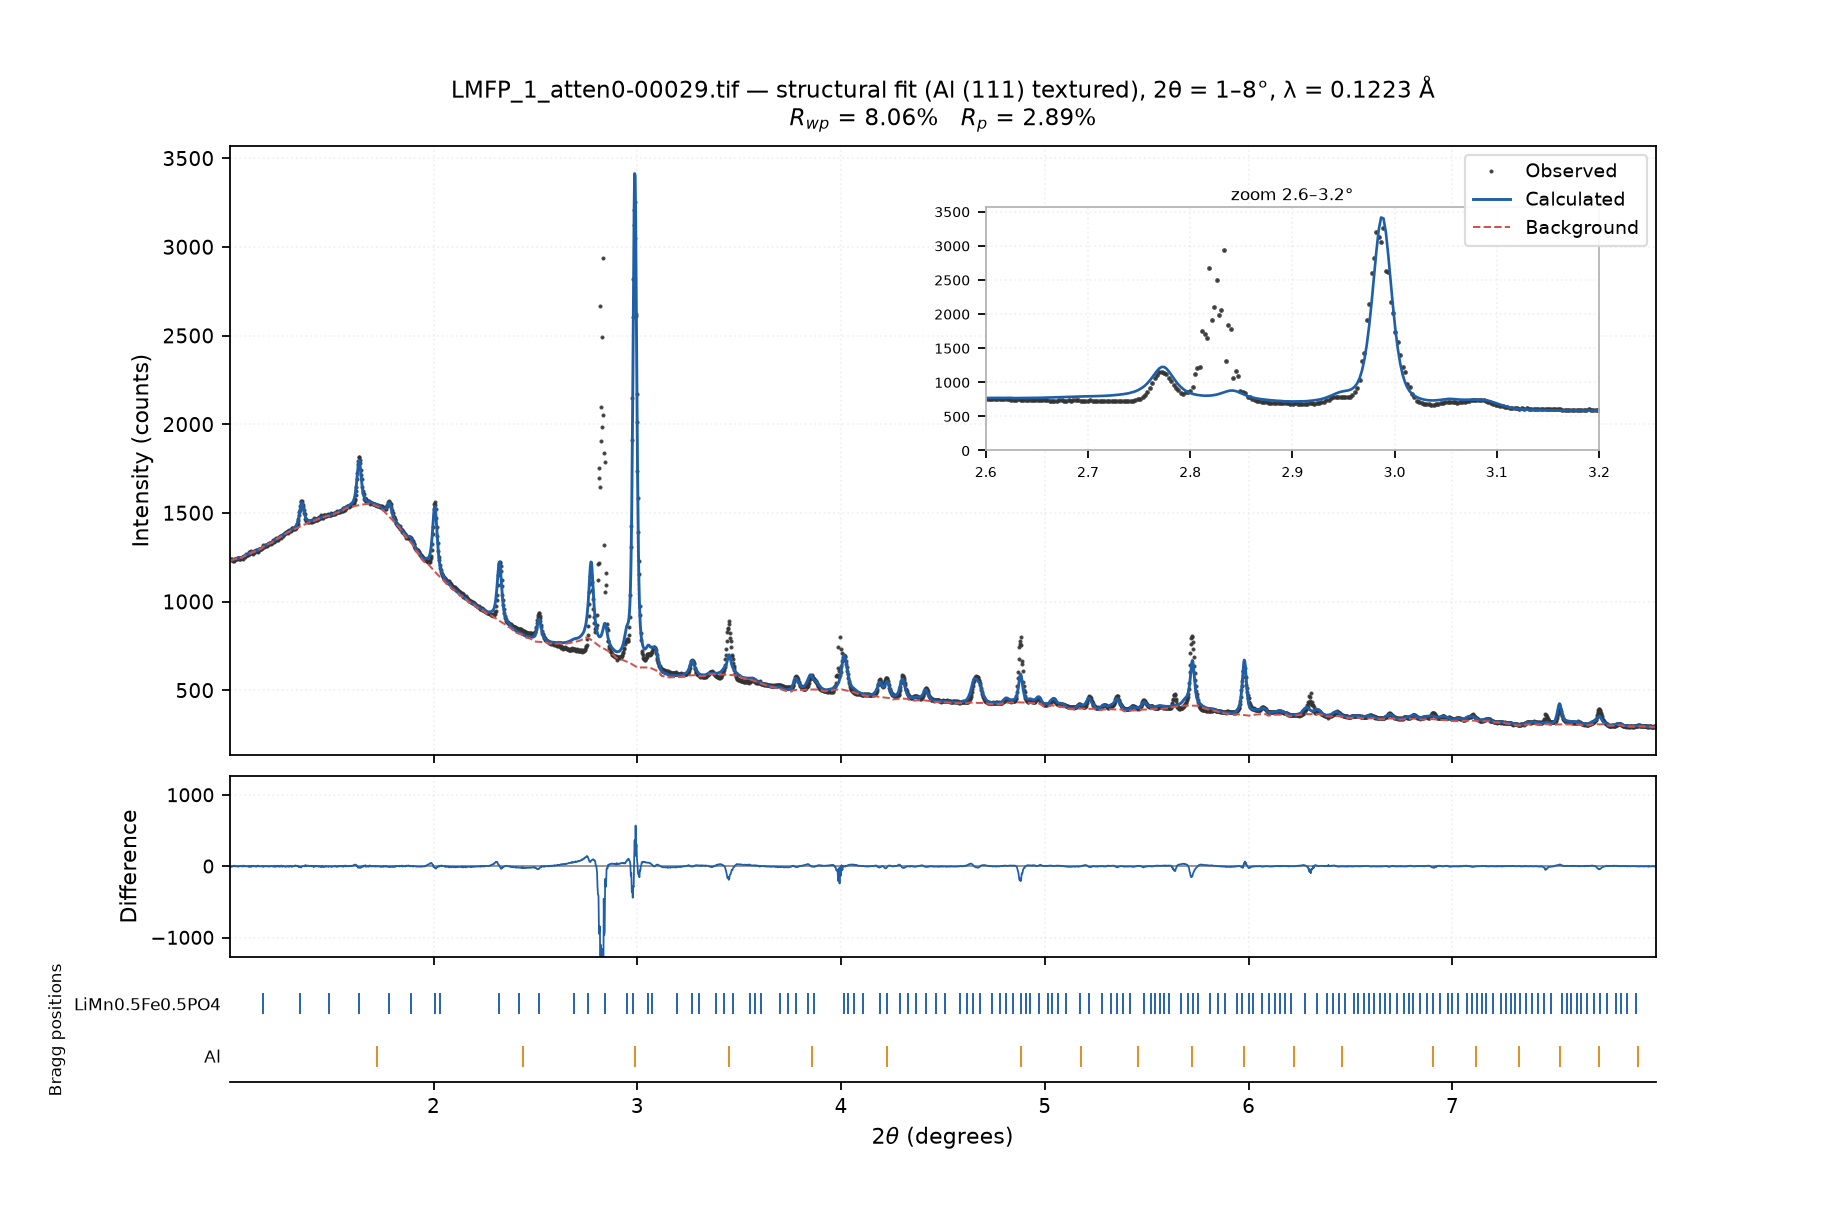
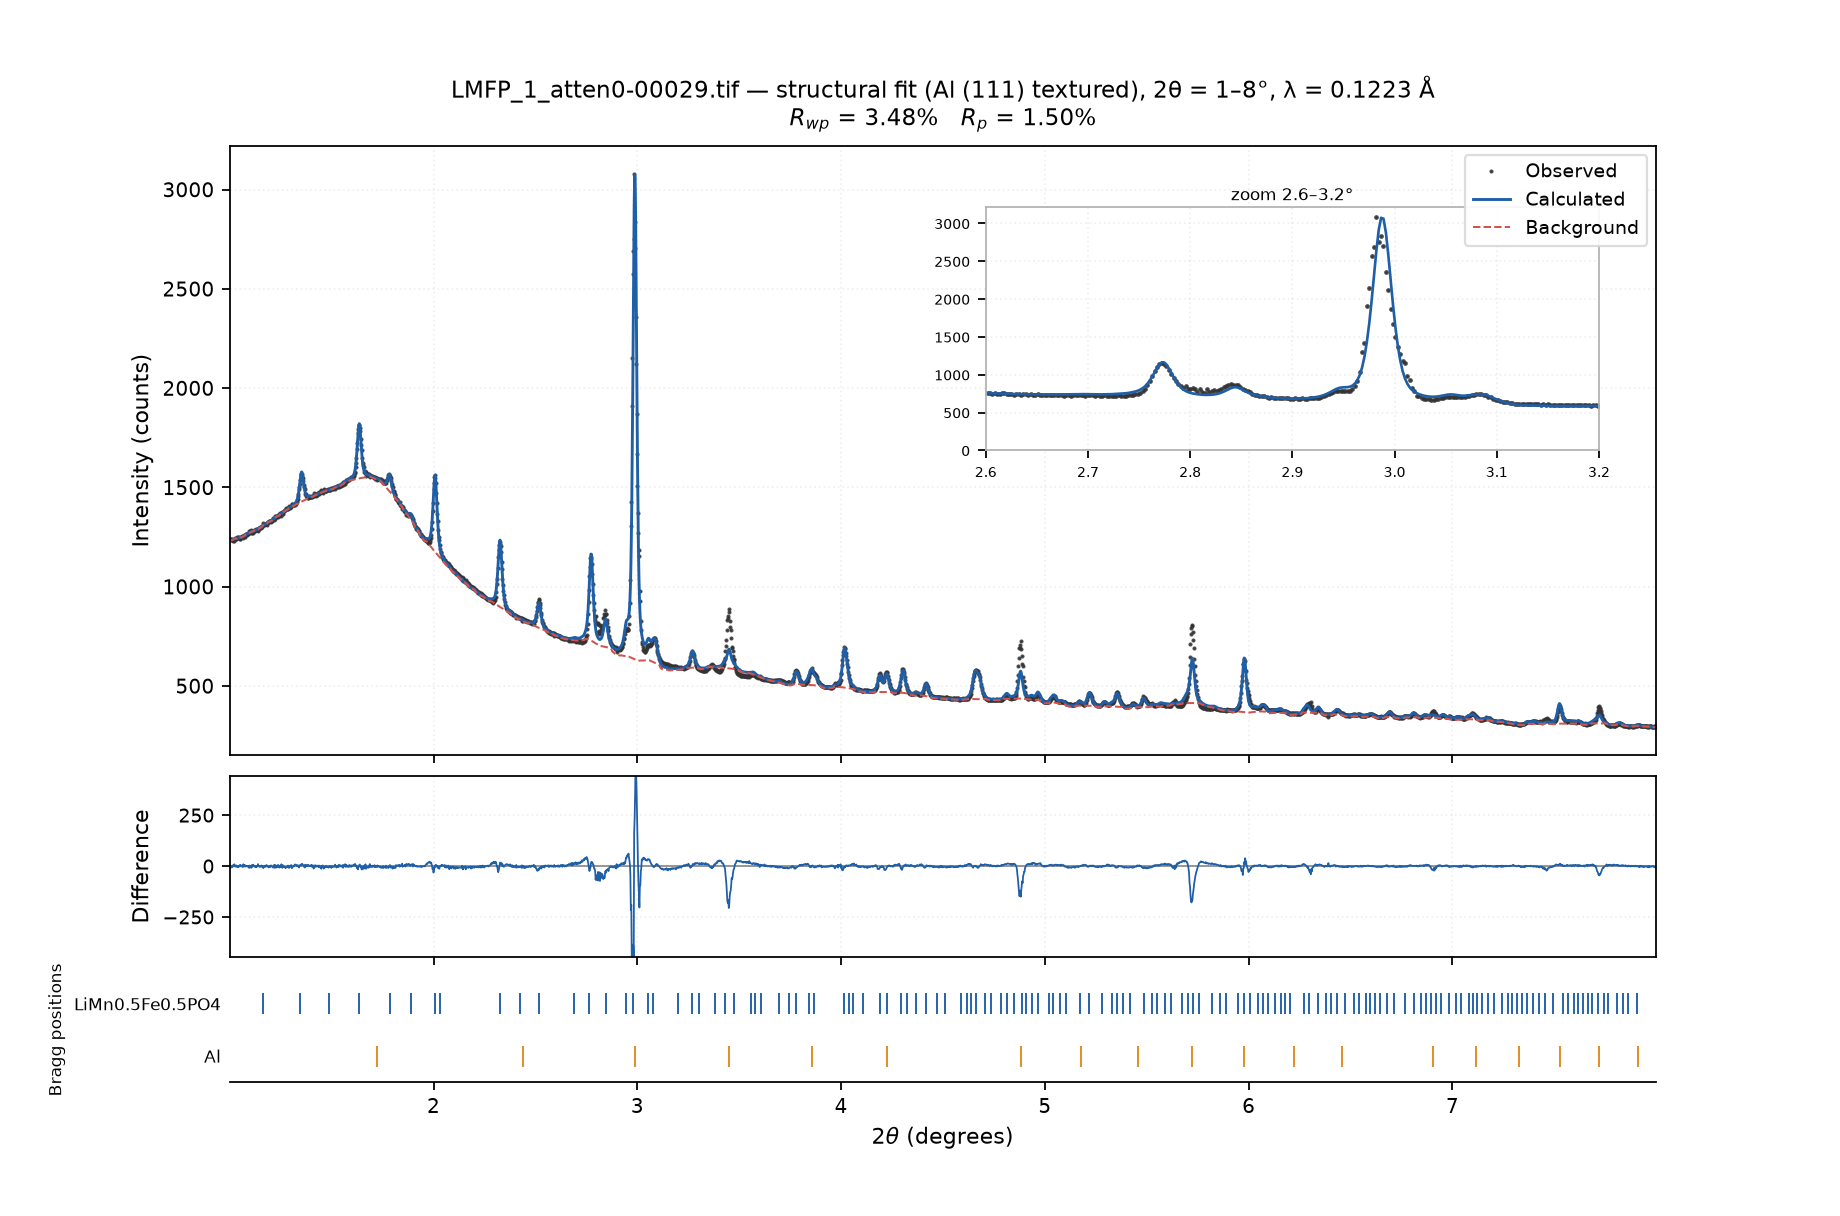
feat: mask fixed detector hot spots before integration
- services/hot_pixels.mask_hot_pixels finds small isolated bright blobs
  (local-median ratio > 8, component area <= 300 px, peak >= 20k) and
  replaces them with the local median; 2x2 downsampling keeps a 2048^2
  frame at ~2.5 s
- fit_lmfp and analyze_pattern enable it for the sample images by default
  (--no-hot-mask disables); the LaB6 standard is not masked because its
  bright spots are real diffraction
- the LMFP 2.8-2.9 deg cluster was a fixed hot blob identical in both
  frames; with the mask the structural Rwp goes 8.07 -> 3.48% and
  Le Bail 6.93 -> 2.29%
- drop the invalid two-phase candidate figure/report from showcase
- add synthetic tests for the mask

diff --git a/src/xrd_toolkit/services/hot_pixels.py b/src/xrd_toolkit/services/hot_pixels.py
@@ -1,0 +1,96 @@
+"""固定坏点/坏点团的检测与掩膜（2026-10-23）。
+
+LMFP 数据里发现**探测器固定的亮斑团**（同一像素在两帧里逐位相同，
+峰值可达 ~1.2M counts），它在方位角平均后会在 1D 谱上制造假峰
+（2.8–2.9° 那簇"算不出来"的强峰就是这么来的，见
+`detector-hot-pixels-lmfp-2026-10-23`）。
+
+做法：用局部中值找"孤立的小亮团"，只把这类像素替换成局部中值，
+**不碰大面积的真实衍射环**（真实环在 15×15 窗口里面积很大）。
+
+判据（针对当前 2048²、环计数 ~10³ 的面板；换探测器/增益时要调）：
+
+- 局部中值窗口 15×15；
+- 像素 > 8 × 局部中值；
+- 连通域面积 ≤ 300 px（真实环是长弧，面积远大于此）；
+- 连通域峰值 ≥ 20 000 counts（避免把弱峰/噪声当坏点）。
+
+注意 LaB6 标样不能套默认阈值：它的"亮斑"是真实衍射斑点，会被
+同一判据选中（实测 3885 个团/5.7 万 px，标样拟合会被毁掉）。
+标样要么不掩，要么只共享"探测器固定坏点坐标表"。
+"""
+import numpy as np
+from scipy import ndimage
+
+DEFAULT_WINDOW = 15
+DEFAULT_RATIO = 8.0
+DEFAULT_MAX_AREA = 300
+DEFAULT_MIN_PEAK = 20000.0
+DEFAULT_DOWNSAMPLE = 2
+
+
+def _local_median(img, window, downsample):
+    """局部中值（downsample ≥2 时先在 2×2 均值图上算，再放大）。
+
+    2048² 上直接 15×15 中值约 10 s；2×2 降采样后约 2.4 s，坏点团
+    （≥6×6 px）依然能被识别。
+    """
+    d = int(downsample)
+    if d < 2:
+        return ndimage.median_filter(img, size=int(window))
+    h, w = img.shape
+    h2, w2 = h // d, w // d
+    small = img[:h2 * d, :w2 * d].reshape(h2, d, w2, d).mean(axis=(1, 3))
+    med_small = ndimage.median_filter(small, size=int(window))
+    med = np.repeat(np.repeat(med_small, d, axis=0), d, axis=1)
+    full = np.empty_like(img)
+    full[:h2 * d, :w2 * d] = med
+    full[h2 * d:, :] = med[-1:, :]
+    full[:, w2 * d:] = med[:, -1:]
+    return full
+
+
+def mask_hot_pixels(image, *, window=DEFAULT_WINDOW, ratio=DEFAULT_RATIO,
+                    max_area=DEFAULT_MAX_AREA, min_peak=DEFAULT_MIN_PEAK,
+                    downsample=DEFAULT_DOWNSAMPLE):
+    """检测孤立亮团并替换为局部中值。
+
+    参数：
+        image     2D 强度数组（同 `load_diffraction_image` 的返回）
+        window    局部中值窗口（奇数，像素）
+        ratio     判定"亮"的倍数（相对局部中值）
+        max_area  连通域面积上限（px）；比它大的视为真实环/亮区，不动
+        min_peak  连通域峰值下限（counts）
+        downsample 局部中值的降采样倍数（2 = 先 2×2 均值再 15×15 中值；
+                   1 = 全分辨率中值，慢约 4 倍）
+
+    返回：
+        (cleaned, mask, info)
+        cleaned   坏点替换成局部中值后的图像（copy）
+        mask      bool 数组，True = 被替换的像素
+        info      dict：候选连通域数、掩掉的连通域数、掩掉像素数
+    """
+    img = np.asarray(image, dtype=float)
+    if img.ndim != 2:
+        raise ValueError("mask_hot_pixels 需要 2D 图像")
+    med = _local_median(img, window, downsample)
+    cand = img > float(ratio) * np.maximum(med, 1.0)
+    labels, n = ndimage.label(cand, structure=np.ones((3, 3)))
+    mask = np.zeros(img.shape, dtype=bool)
+    kept = 0
+    for i, sl in enumerate(ndimage.find_objects(labels), start=1):
+        if sl is None:
+            continue
+        sel = labels[sl] == i
+        area = int(sel.sum())
+        if area > int(max_area):
+            continue
+        if float(img[sl][sel].max()) < float(min_peak):
+            continue
+        mask[sl] |= sel
+        kept += 1
+    cleaned = img.copy()
+    cleaned[mask] = med[mask]
+    info = {"candidates": int(n), "masked_components": kept,
+            "masked_pixels": int(mask.sum())}
+    return cleaned, mask, info

diff --git a/scripts/fit_lmfp.py b/scripts/fit_lmfp.py
@@ -7,7 +7,7 @@
 流程：
   1. 用 LaB₆ 标样（`data/lab6-00024.tif`）拟合仪器峰形
      zero/U/V/W/X/Y，之后固定给样品；
-  2. 样品 1D 积分 + 自动基线；**排除 2.90–3.08° 的 Al (111) 基片峰**
+  2. 样品 1D 积分（先掩固定坏点团）+ 自动基线；**排除 2.90–3.08° 的 Al (111) 基片峰**
      （LMFP 电极的铝集流体，d≈2.34 Å；不排除会把强度模型带偏）；
   3. 结构拟合：晶胞 a/b/c + Size/应变 + 全局 B + 0.25° 背景修正，
      用来定晶胞；
@@ -30,6 +30,7 @@ sys.path.insert(0, str(ROOT / "src"))
 from xrd_toolkit.config import get_config  # noqa: E402
 from xrd_toolkit.services.background import estimate_baseline_sliding  # noqa: E402
 from xrd_toolkit.services.data_loader import load_diffraction_image  # noqa: E402
+from xrd_toolkit.services.hot_pixels import mask_hot_pixels  # noqa: E402
 from xrd_toolkit.services.integrator import integrate_1d  # noqa: E402
 from xrd_toolkit.simulation import (  # noqa: E402
     b_iso_from_cif, fit_pattern, load_structure, plot_fit)
@@ -49,8 +50,12 @@ SAMPLE_CELL = (10.376, 6.040, 4.708)
 AL_CIF = ROOT / "data" / "structures" / "Al_metal.cif"
 
 
-def load_1d(path, geom, tmin=1.0, tmax=8.0, npt=3000):
+def load_1d(path, geom, tmin=1.0, tmax=8.0, npt=3000, hot_mask=False):
     img = load_diffraction_image(str(path))
+    if hot_mask:
+        img, _mask, info = mask_hot_pixels(img)
+        print(f"  坏点掩膜：{info['masked_components']} 团 / "
+              f"{info['masked_pixels']} px（候选 {info['candidates']}）")
     return integrate_1d(img, npt=npt, tth_min_deg=tmin, tth_max_deg=tmax,
                         **geom)
 
@@ -73,8 +78,8 @@ def instrument_profile(geom, lam):
 
 
 def fit_one(path, structure, geom, lam, inst, outdir, exclude, cif_cell,
-            use_al=False, phase_label=None):
-    t, y = load_1d(path, geom)
+            use_al=False, phase_label=None, hot_mask=True):
+    t, y = load_1d(path, geom, hot_mask=hot_mask)
     bg = estimate_baseline_sliding(t, y, 0.2)
     w = 1.0 / np.maximum(y, 1.0)
     w_leb = w.copy()
@@ -143,6 +148,8 @@ def main():
                     help="不用 Al 第二相，直接把 Al 区从结构拟合里排除")
     ap.add_argument("--tmin", type=float, default=1.0)
     ap.add_argument("--tmax", type=float, default=8.0)
+    ap.add_argument("--no-hot-mask", action="store_true",
+                    help="关掉坏点团掩膜（默认开；标样本来就不过掩膜）")
     a = ap.parse_args()
     geom = dict(get_config("lmfp1_lab6")["geometry"])
     lam = geom["wavelength_m"] * 1e10
@@ -177,7 +184,8 @@ def main():
             continue
         struct, lebail, out = fit_one(
             p, structure, geom, lam, inst, outdir, exclude, SAMPLE_CELL,
-            use_al=use_al, phase_label=cif.stem.split("_")[0])
+            use_al=use_al, phase_label=cif.stem.split("_")[0],
+            hot_mask=not a.no_hot_mask)
         al_scale = struct.params.get("Al:scale")
         leb_txt = (f"{lebail.rwp:10.3f}" if lebail is not None
                    else f"{chr(8212):>10}")

diff --git a/scripts/analyze_pattern.py b/scripts/analyze_pattern.py
@@ -30,6 +30,7 @@ from scipy.signal import find_peaks  # noqa: E402
 from xrd_toolkit.config import get_config  # noqa: E402
 from xrd_toolkit.services.background import estimate_baseline_sliding  # noqa: E402
 from xrd_toolkit.services.data_loader import load_diffraction_image  # noqa: E402
+from xrd_toolkit.services.hot_pixels import mask_hot_pixels  # noqa: E402
 from xrd_toolkit.services.integrator import integrate_1d  # noqa: E402
 from xrd_toolkit.simulation import (  # noqa: E402
     b_iso_from_cif, core, fit_pattern, load_structure, plot_fit)
@@ -52,8 +53,12 @@ LAB6_CIF = STRUCT / "LaB6_NIST660c.cif"
 DEFAULT_OOB = Path(tempfile.gettempdir()) / "xrd_toolkit_analysis"
 
 
-def load_1d(path, geom, tmin, tmax, npt=3000):
+def load_1d(path, geom, tmin, tmax, npt=3000, hot_mask=False):
     img = load_diffraction_image(str(path))
+    if hot_mask:
+        img, _mask, info = mask_hot_pixels(img)
+        print(f"  坏点掩膜：{info['masked_components']} 团 / "
+              f"{info['masked_pixels']} px（候选 {info['candidates']}）")
     return integrate_1d(img, npt=npt, tth_min_deg=tmin, tth_max_deg=tmax,
                         **geom)
 
@@ -155,8 +160,8 @@ def al_substrate_ranges(obs_t, obs_h, lam, tmin, tmax, zero, primary_cif,
 
 
 def fit_one(path, primary, primary_name, cell0, geom, lam, inst, outdir,
-            exclude, tmin, tmax, use_al=False):
-    t, y = load_1d(path, geom, tmin, tmax)
+            exclude, tmin, tmax, use_al=False, hot_mask=True):
+    t, y = load_1d(path, geom, tmin, tmax, hot_mask=hot_mask)
     bg = estimate_baseline_sliding(t, y, 0.2)
     w = 1.0 / np.maximum(y, 1.0)
     w_leb = w.copy()
@@ -217,7 +222,10 @@ def main():
     ap.add_argument("--outdir", default=str(DEFAULT_OOB))
     ap.add_argument("--tmin", type=float, default=1.0)
     ap.add_argument("--tmax", type=float, default=8.0)
+    ap.add_argument("--no-hot-mask", action="store_true",
+                    help="关掉坏点团掩膜（默认开；标样本来就不过掩膜）")
     a = ap.parse_args()
+    hot_mask = not a.no_hot_mask
     geom = dict(get_config(a.config)["geometry"])
     lam = geom["wavelength_m"] * 1e10
     outdir = Path(a.outdir)
@@ -236,7 +244,7 @@ def main():
         if not p.exists():
             print(f"跳过（不存在）：{p}")
             continue
-        t, y = load_1d(p, geom, a.tmin, a.tmax)
+        t, y = load_1d(p, geom, a.tmin, a.tmax, hot_mask=hot_mask)
         bg = estimate_baseline_sliding(t, y, 0.2)
         obs_t, obs_h = detect_peaks(t, y, bg)
         print(f"\n{p.name}：检出 {len(obs_t)} 根峰")
@@ -269,7 +277,7 @@ def main():
             print("  未识别到 Al 集流体强峰")
         struct, lebail, out = fit_one(
             p, primary, top[1].name, cell0, geom, lam, inst, outdir,
-            exclude, a.tmin, a.tmax, use_al=use_al)
+            exclude, a.tmin, a.tmax, use_al=use_al, hot_mask=hot_mask)
         al_txt = (f" Al={struct.params['Al:scale']:.3g}"
                   if "Al:scale" in struct.params else "")
         print(f"  结构：Rwp {struct.rwp:.3f}%  a={struct.params['a']:.4f} "

diff --git a/tests/test_hot_pixels.py b/tests/test_hot_pixels.py
@@ -1,0 +1,55 @@
+"""坏点团掩膜测试（2026-10-23）。
+
+合成一张"背景 + 细环 + 孤立亮团 + 大面积亮区"的图，确认：
+  * 孤立亮团被替换成局部中值；
+  * 真实的细环不被误伤；
+  * 面积大的亮区（比如饱和的强环/真实斑点）不被当成坏点；
+  * 峰值没到门槛的小亮团不动。
+"""
+import sys
+import unittest
+from pathlib import Path
+
+import numpy as np
+
+sys.path.insert(0, str(Path(__file__).resolve().parents[1] / "src"))
+
+from xrd_toolkit.services.hot_pixels import mask_hot_pixels  # noqa: E402
+
+
+def _synthetic():
+    yy, xx = np.indices((200, 200))
+    r = np.hypot(yy - 100.0, xx - 100.0)
+    img = 100.0 + 500.0 * np.exp(-0.5 * ((r - 60.0) / 1.5) ** 2)
+    img[146:154, 46:54] = 50000.0        # 孤立亮团（8×8）
+    img[10:50, 130:170] = 5000.0         # 大面积亮区（40×40，真实强环/斑点）
+    img[170:172, 30:32] = 150.0          # 小亮点，峰值不够
+    return img
+
+
+class TestHotPixelMask(unittest.TestCase):
+    def test_blob_masked_ring_and_big_patch_kept(self):
+        img = _synthetic()
+        clean, mask, info = mask_hot_pixels(img)
+        self.assertTrue(mask[150, 50])          # 亮团中心
+        self.assertGreater(info["masked_pixels"], 0)
+        self.assertLess(clean[150, 50], 1000.0)  # 替换成局部中值
+        # 细环（r=60）不被误伤
+        self.assertFalse(mask[100, 160])
+        self.assertAlmostEqual(clean[100, 160], img[100, 160])
+        # 大面积亮区不被当成坏点
+        self.assertFalse(mask[30, 150])
+        self.assertAlmostEqual(clean[30, 150], img[30, 150])
+        # 峰值不够的小亮团不动
+        self.assertFalse(mask[171, 31])
+
+    def test_full_resolution_matches_downsampled(self):
+        img = _synthetic()
+        _c1, m1, _ = mask_hot_pixels(img, downsample=1)
+        _c2, m2, _ = mask_hot_pixels(img, downsample=2)
+        self.assertTrue(m1[150, 50])
+        self.assertTrue(m2[150, 50])
+
+
+if __name__ == "__main__":
+    unittest.main()

diff --git a/CHANGELOG.md b/CHANGELOG.md
@@ -18,6 +18,14 @@
 
 ### 模拟
 
+- **固定坏点团掩膜**（2026-10-23）：LMFP 数据里 2.8–2.9° 的强峰簇是
+  **探测器固定亮斑**（两帧同位置、峰值 ~1.2M counts、正常环 ~800），
+  不是相分离/成分分布。新增 `services/hot_pixels.mask_hot_pixels`
+  （15×15 局部中值比 >8、连通域面积 ≤300 px、峰值 ≥20k；2×2 降采样
+  加速），`fit_lmfp.py` / `analyze_pattern.py` 默认对**样品**启用，
+  `--no-hot-mask` 关闭；**标样不掩**（LaB6 的亮斑是真实衍射）。
+  LMFP 结构/Le Bail **8.07/6.93 → 3.48/2.29%**；2.8° 的两相候选图
+  作废并移出 showcase。
 - **拟合图统一成论文式布局**（2026-10-23）：观测点 / 计算线 / 背景 +
   obs−calc 差值 + 每相一行的布拉格峰位刻度。`plot_fit` 默认用
   `FitResult.peak_tth`（主相）和 `extra_peak_tth`（第二相）自动生成
